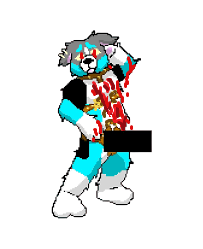
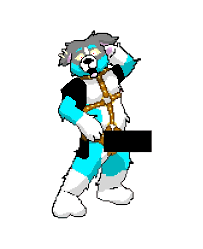
update1
update

diff --git a/public/assets/cuchilla.js b/public/assets/cuchilla.js
@@ -6,6 +6,8 @@ const div_dps = document.getElementById("dps");
 const div_golpes = document.getElementById("golpes"); 
 const cuchillo = document.getElementById("cuchillo"); 
 const furry = document.getElementById("furry"); 
+const descarga = document.getElementById("descarga"); 
+const pene = document.getElementById("pene"); 
 const ajustes = document.getElementById("ajustes"); 
 const pantalla_ajustes = document.getElementById("pantalla_ajustes"); 
 const add_cuchilla = document.getElementById("add_cuchilla");
@@ -19,6 +21,8 @@ const opciones = document.querySelectorAll('.opcion');
 
 let cuchillas = 0;
 let lvl_cuchillo = 1;
+let lvl_electrocutar = 1;
+let lvl_cortar = 1;
 let dinero = 0;
 let dps = 0;
 let golpes = 0;
@@ -34,12 +38,20 @@ function actualizar() {
     mostrar_estadisticas();
 
     //cambiar furrysprite
-    if(golpes > 50){
-        furry.classList = "dos";
+    if(lvl_cortar > 1){
+        furry.classList = "cinco";
     }
-    if(golpes > 100){
+    else if(golpes > 10000){
+        furry.classList = "cuatro";
+    }
+    else if(golpes > 1000){
         furry.classList = "tres";
     }
+    else if(golpes > 100){
+        furry.classList = "dos";
+    }
+    
+    
 }
   
   // Configurar la ejecución de la función 60 veces por segundo
@@ -65,13 +77,14 @@ torture_room.onmouseup= function(){
 }
 btns[0].addEventListener("click", function(){
     if(dinero >= 10*(cuchillas+1)){
-        circulo_cuchilla.innerHTML = "";
         cuchillas++;
         dps += 0.5;
         dinero = dinero -10*(cuchillas);
         btns[0].innerHTML = "Añadir cuchilla("+(10*(cuchillas+1))+")";
 
-        for(let i=0; i<cuchillas;i++){
+        //VISUAL
+        circulo_cuchilla.innerHTML = "";    //reset necesario
+        for(let i=0; i<cuchillas;i++){      //imprime las cuchillas de nuevo
             const cuchilla = new Cuchilla(360*i/cuchillas);
         }
         mostrar_estadisticas();
@@ -86,6 +99,29 @@ btns[1].addEventListener("click", function(){
         mostrar_estadisticas();
     }
     
+});
+btns[2].addEventListener("click", function(){
+    if(dinero >= (1000 * Math.pow(2, (lvl_electrocutar-1)))){
+        lvl_electrocutar++;
+        descarga.style.display = "block";
+        dps+=50;
+        dinero = dinero-(1000 * Math.pow(2, (lvl_electrocutar-2)));
+        btns[2].innerHTML = "Mejorar potencia(" + (1000 * Math.pow(2, (lvl_electrocutar-1)))+")";
+        mostrar_estadisticas();
+    }
+});
+btns[3].addEventListener("click", function(){
+    if(dinero >= (100000 * Math.pow(2, (lvl_cortar-1)))){
+        lvl_cortar++;
+        dps+=1000;
+        pene.classList.add("cortado");
+        setTimeout(function(){
+            pene.classList.remove("cortado");
+        }, 2000);
+        dinero = dinero-(100000 * Math.pow(2, (lvl_cortar-2)));
+        btns[2].innerHTML = "Mejorar potencia(" + (100000 * Math.pow(2, (lvl_cortar-1)))+")";
+        mostrar_estadisticas();
+    }
 });
 
 

diff --git a/public/assets/style.css b/public/assets/style.css
@@ -35,6 +35,12 @@ body{
 #furry.tres{
     background-image: url("furry3.png");
 }
+#furry.cuatro{
+    background-image: url("furry4.png");
+}
+#furry.cinco{
+    background-image: url("furryNoPito.png");
+}
 #cuchillo{
     background-image: url("cuchillo.png");
     background-position: center;
@@ -173,4 +179,63 @@ body{
 .opcion:hover{
     background-color: rgba(255, 0, 0, 0.471);
 }
+#bateria{
+    width: 150px;
+    height: 150px;
+    background-image: url("bateria.png");
+    background-position: center;
+    background-repeat: no-repeat;
+    background-size: cover;
+    position: absolute;
+    bottom: 0;
+    right: 0;
+}
+#descarga{
+    display: none;
+    background-color: black;
+    box-shadow: 0;
+    width: 400px;
+    height: 10px;
+    position: absolute;
+    right: 0;
+    bottom: 100px;
+    animation: normal linear corriente 2s infinite;
+}
+@keyframes corriente{
+    0%{
+        background-color: black;
+        box-shadow: none;
+    }
+    50%{
+        background-color: black;
+        box-shadow: none;
+    }
+    50.1%{
+        background-color: blue;
+        box-shadow: 0px 0px 10px 10px rgba(0, 255, 255, 0.46);
+    }
+    99.9%{
+        background-color: blue;
+        box-shadow: 0px 0px 10px 10px rgba(0, 255, 255, 0.46);
+    }
+}
+#pene{
+    display: none;
+    position: fixed;
+    width: 80dvh;
+    height: 80dvh;
+    background-image: url("bateria.png");
+    background-position: center;
+    background-repeat: no-repeat;
+    background-size: cover;
+    position: absolute;
+    bottom: 0;
+    top: 0;
+    left: 0;
+    right: 0;
+    margin: auto;
 
+}
+#pene.cortado{
+    display: block;
+}

diff --git a/public/index.html b/public/index.html
@@ -21,12 +21,15 @@
             <div id="circulo_cuchilla"></div>
             <div id="furry" class="uno"></div>
             <div id="cuchillo" class="lejos"></div>
+            <div id="bateria"></div>
+            <div id="descarga"></div>
+            <div id="pene"></div>
         </div>
         <div id="mejoras" class="parte">
             <button id="add_cuchilla" class="btn">Añadir Cuchilla(10 euros)</button>
             <button id="mejorar_cuchillo" class="btn">mejorar Cuchillo(200 euros)</button>
-            <button id="a" class="btn">mejorar Cuchillo(10 euros)</button>
-            <button id="b" class="btn">mejorar Cuchillo(10 euros)</button>
+            <button id="electrocutar" class="btn">Electrocutar(1000 euros)</button>
+            <button id="cortasela" class="btn">Cortasela!!!(100000)</button>
             
         </div>
         <div id="estadisticas" class="parte">
